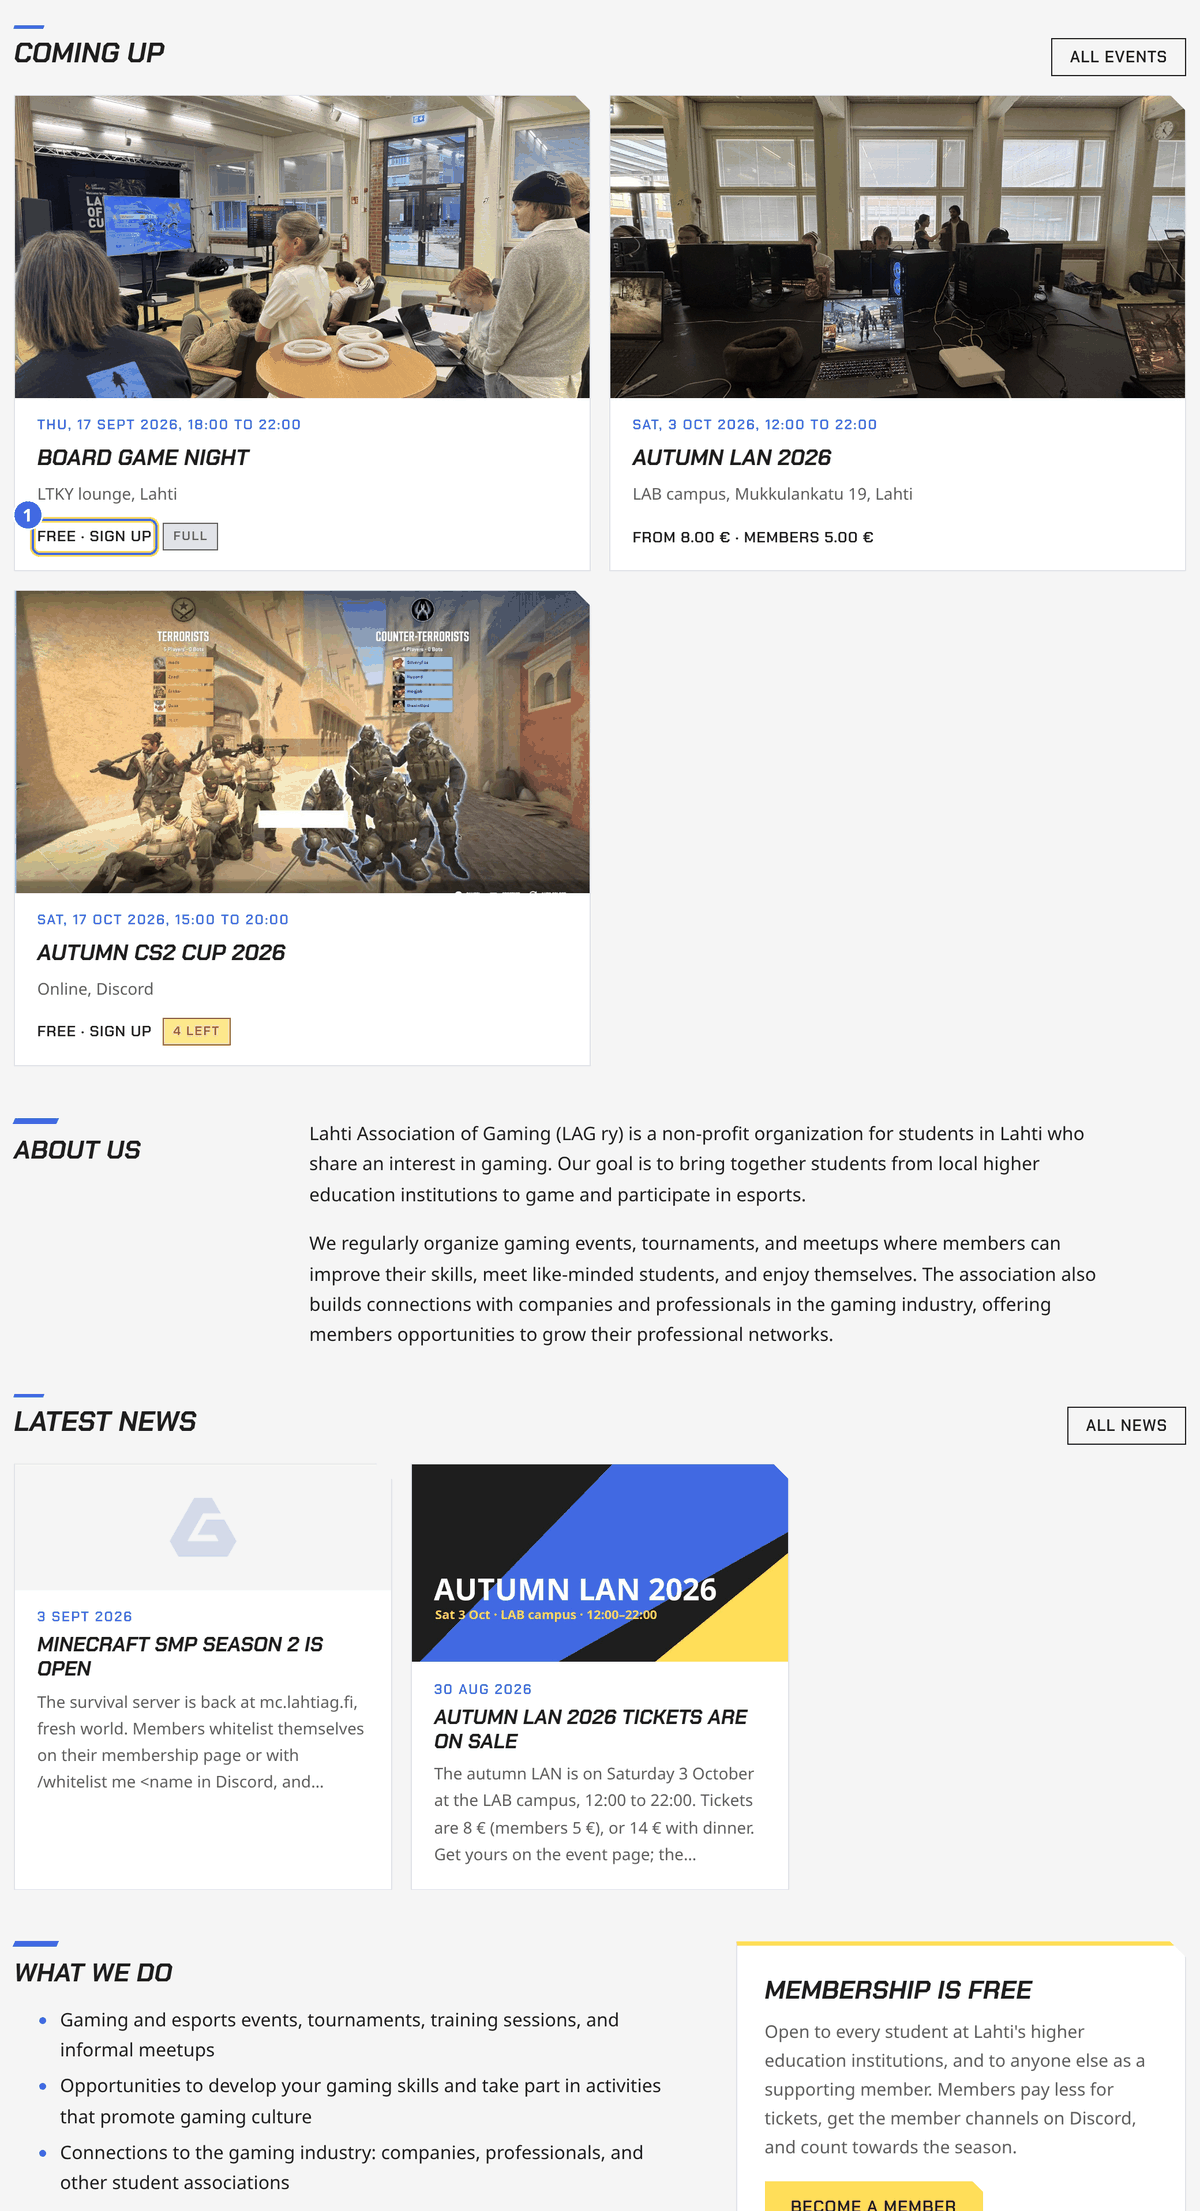
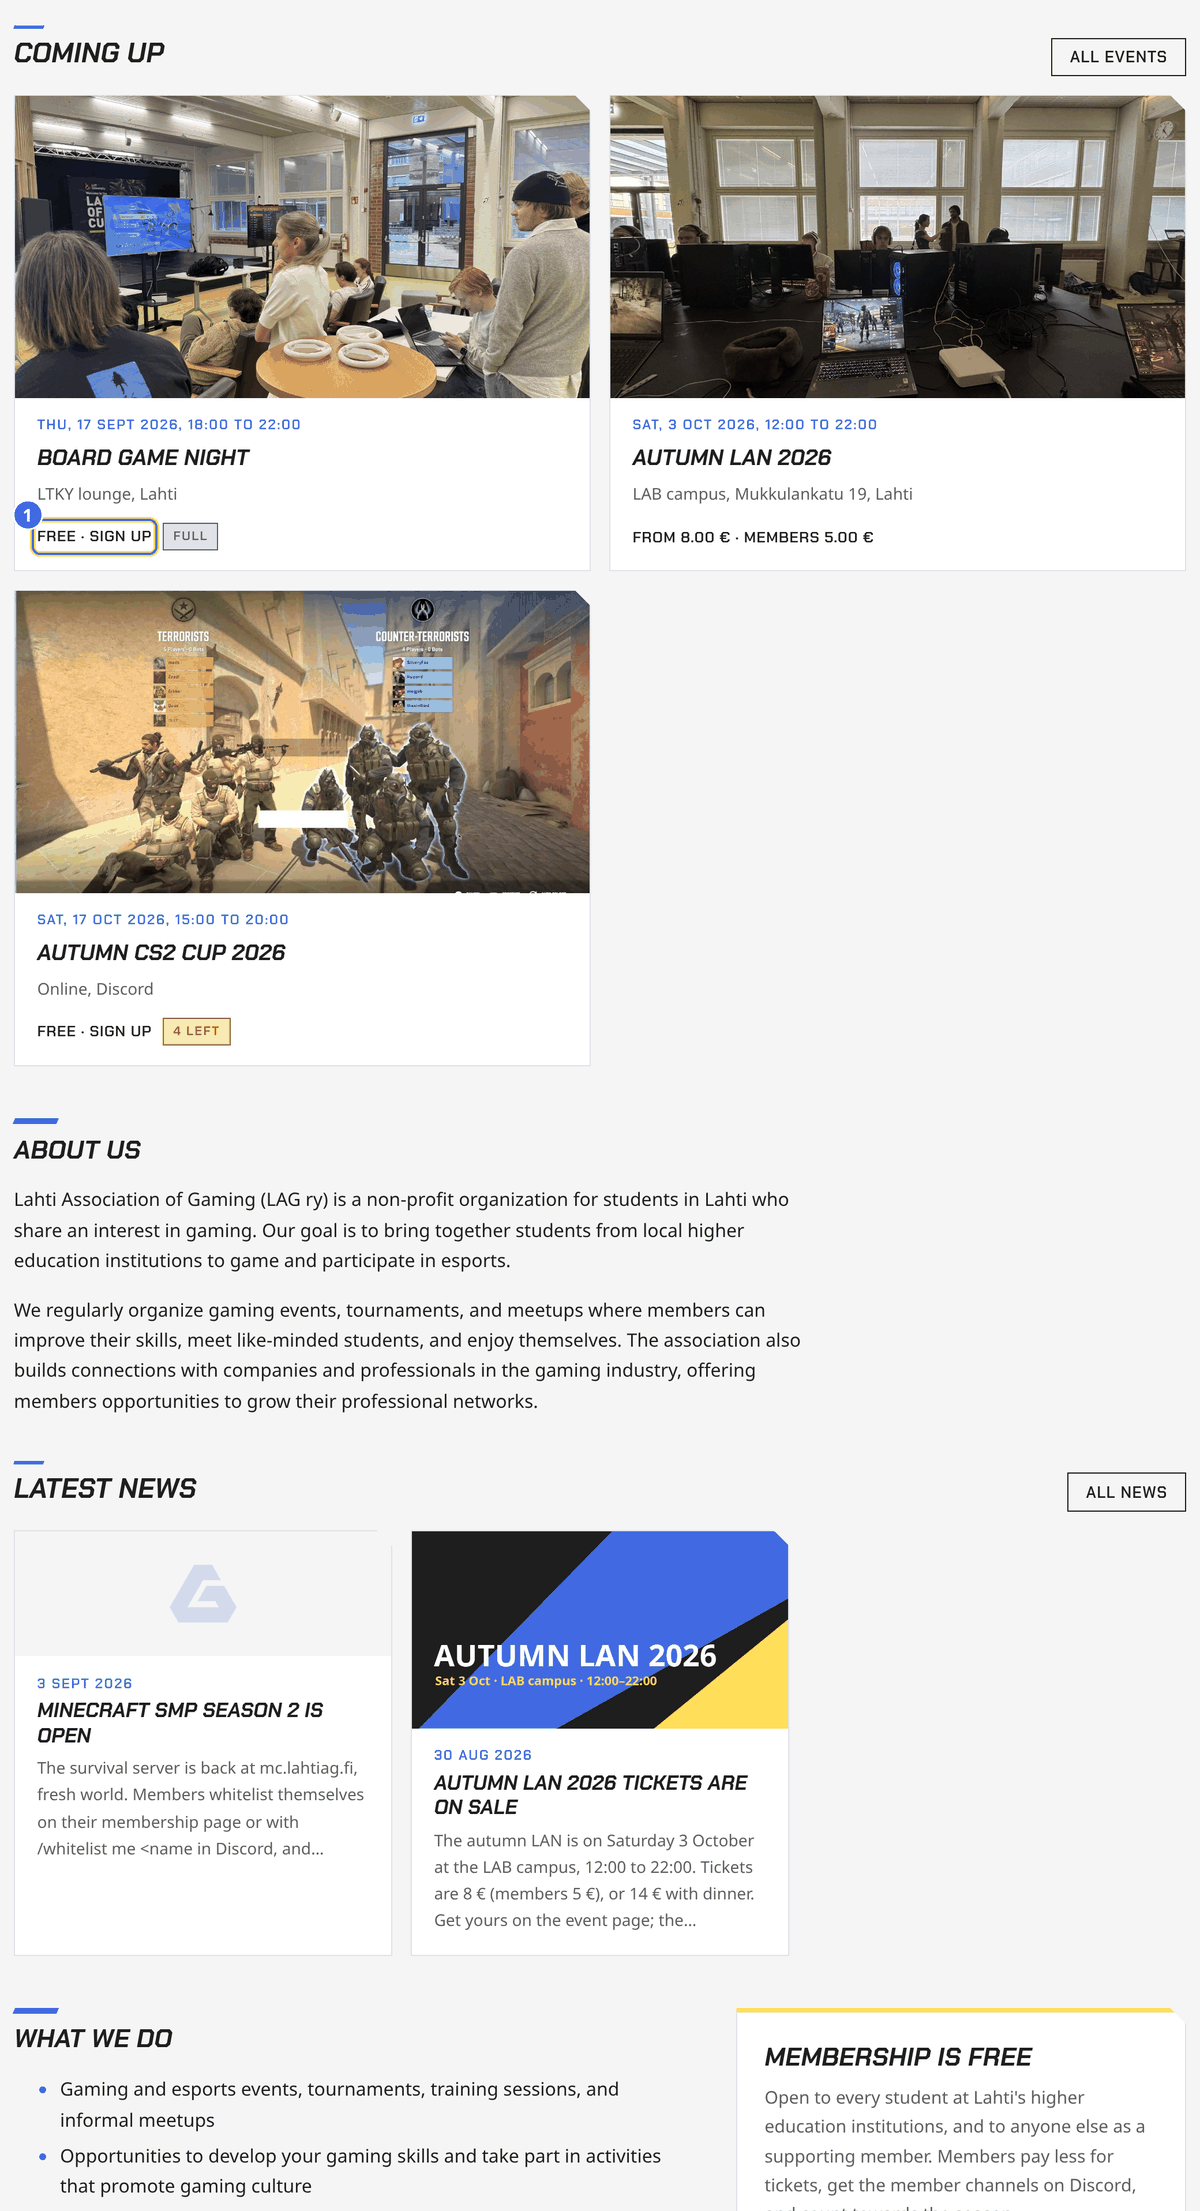
The words sit under their heading
Setting About us beside its heading answered the wrong complaint: what
was odd was where the words sat on the page, not that the heading was
above them. Heading, then the text under it, at the measure the rest of
the site reads at — where the section sits between the strips, that is
all it needed.

Claude-Session: https://claude.ai/code/session_019m4NkzFyEy3cwdh3cuTmAt

diff --git a/src/styles/site.css b/src/styles/site.css
@@ -2045,33 +2045,17 @@ a:hover {
   object-fit: contain;
 }
 
-/* The page's own words: the heading in its own column, the text beside it
-   at a readable measure, the way a magazine sets an about page. */
+/* The page's own words: the heading, then the text under it, at the
+   measure the rest of the site reads at. */
 .home-words {
   margin-bottom: 2.4rem;
 }
 
-.home-prose {
-  display: grid;
-  grid-template-columns: minmax(8rem, 13rem) minmax(0, 1fr);
-  column-gap: 3rem;
-  align-items: start;
-}
-
 .home-prose > * {
-  grid-column: 2;
   max-width: var(--prose-measure);
 }
 
-.home-prose h2 {
-  grid-column: 1;
-  margin: 0;
-  max-width: none;
-}
-
-/* margins do not collapse between grid items, so the text keeps only its
-   bottom margins */
-.home-prose > * {
+.home-prose > :first-child {
   margin-top: 0;
 }
 
@@ -2079,14 +2063,8 @@ a:hover {
   margin-bottom: 0;
 }
 
-@media (max-width: 800px) {
-  .home-prose {
-    display: block;
-  }
-
-  .home-prose h2 {
-    margin-bottom: 0.8rem;
-  }
+.home-prose h2 {
+  margin-bottom: 0.8rem;
 }
 
 /* What the association does, with the way in beside it. */
@@ -2102,13 +2080,8 @@ a:hover {
   margin: 0;
 }
 
-/* beside the join box the heading goes back above its text */
-.home-about .home-prose {
-  display: block;
-}
-
 .home-about .home-prose h2 {
-  margin: 0 0 0.8rem;
+  margin-top: 0;
 }
 
 .home-join {
